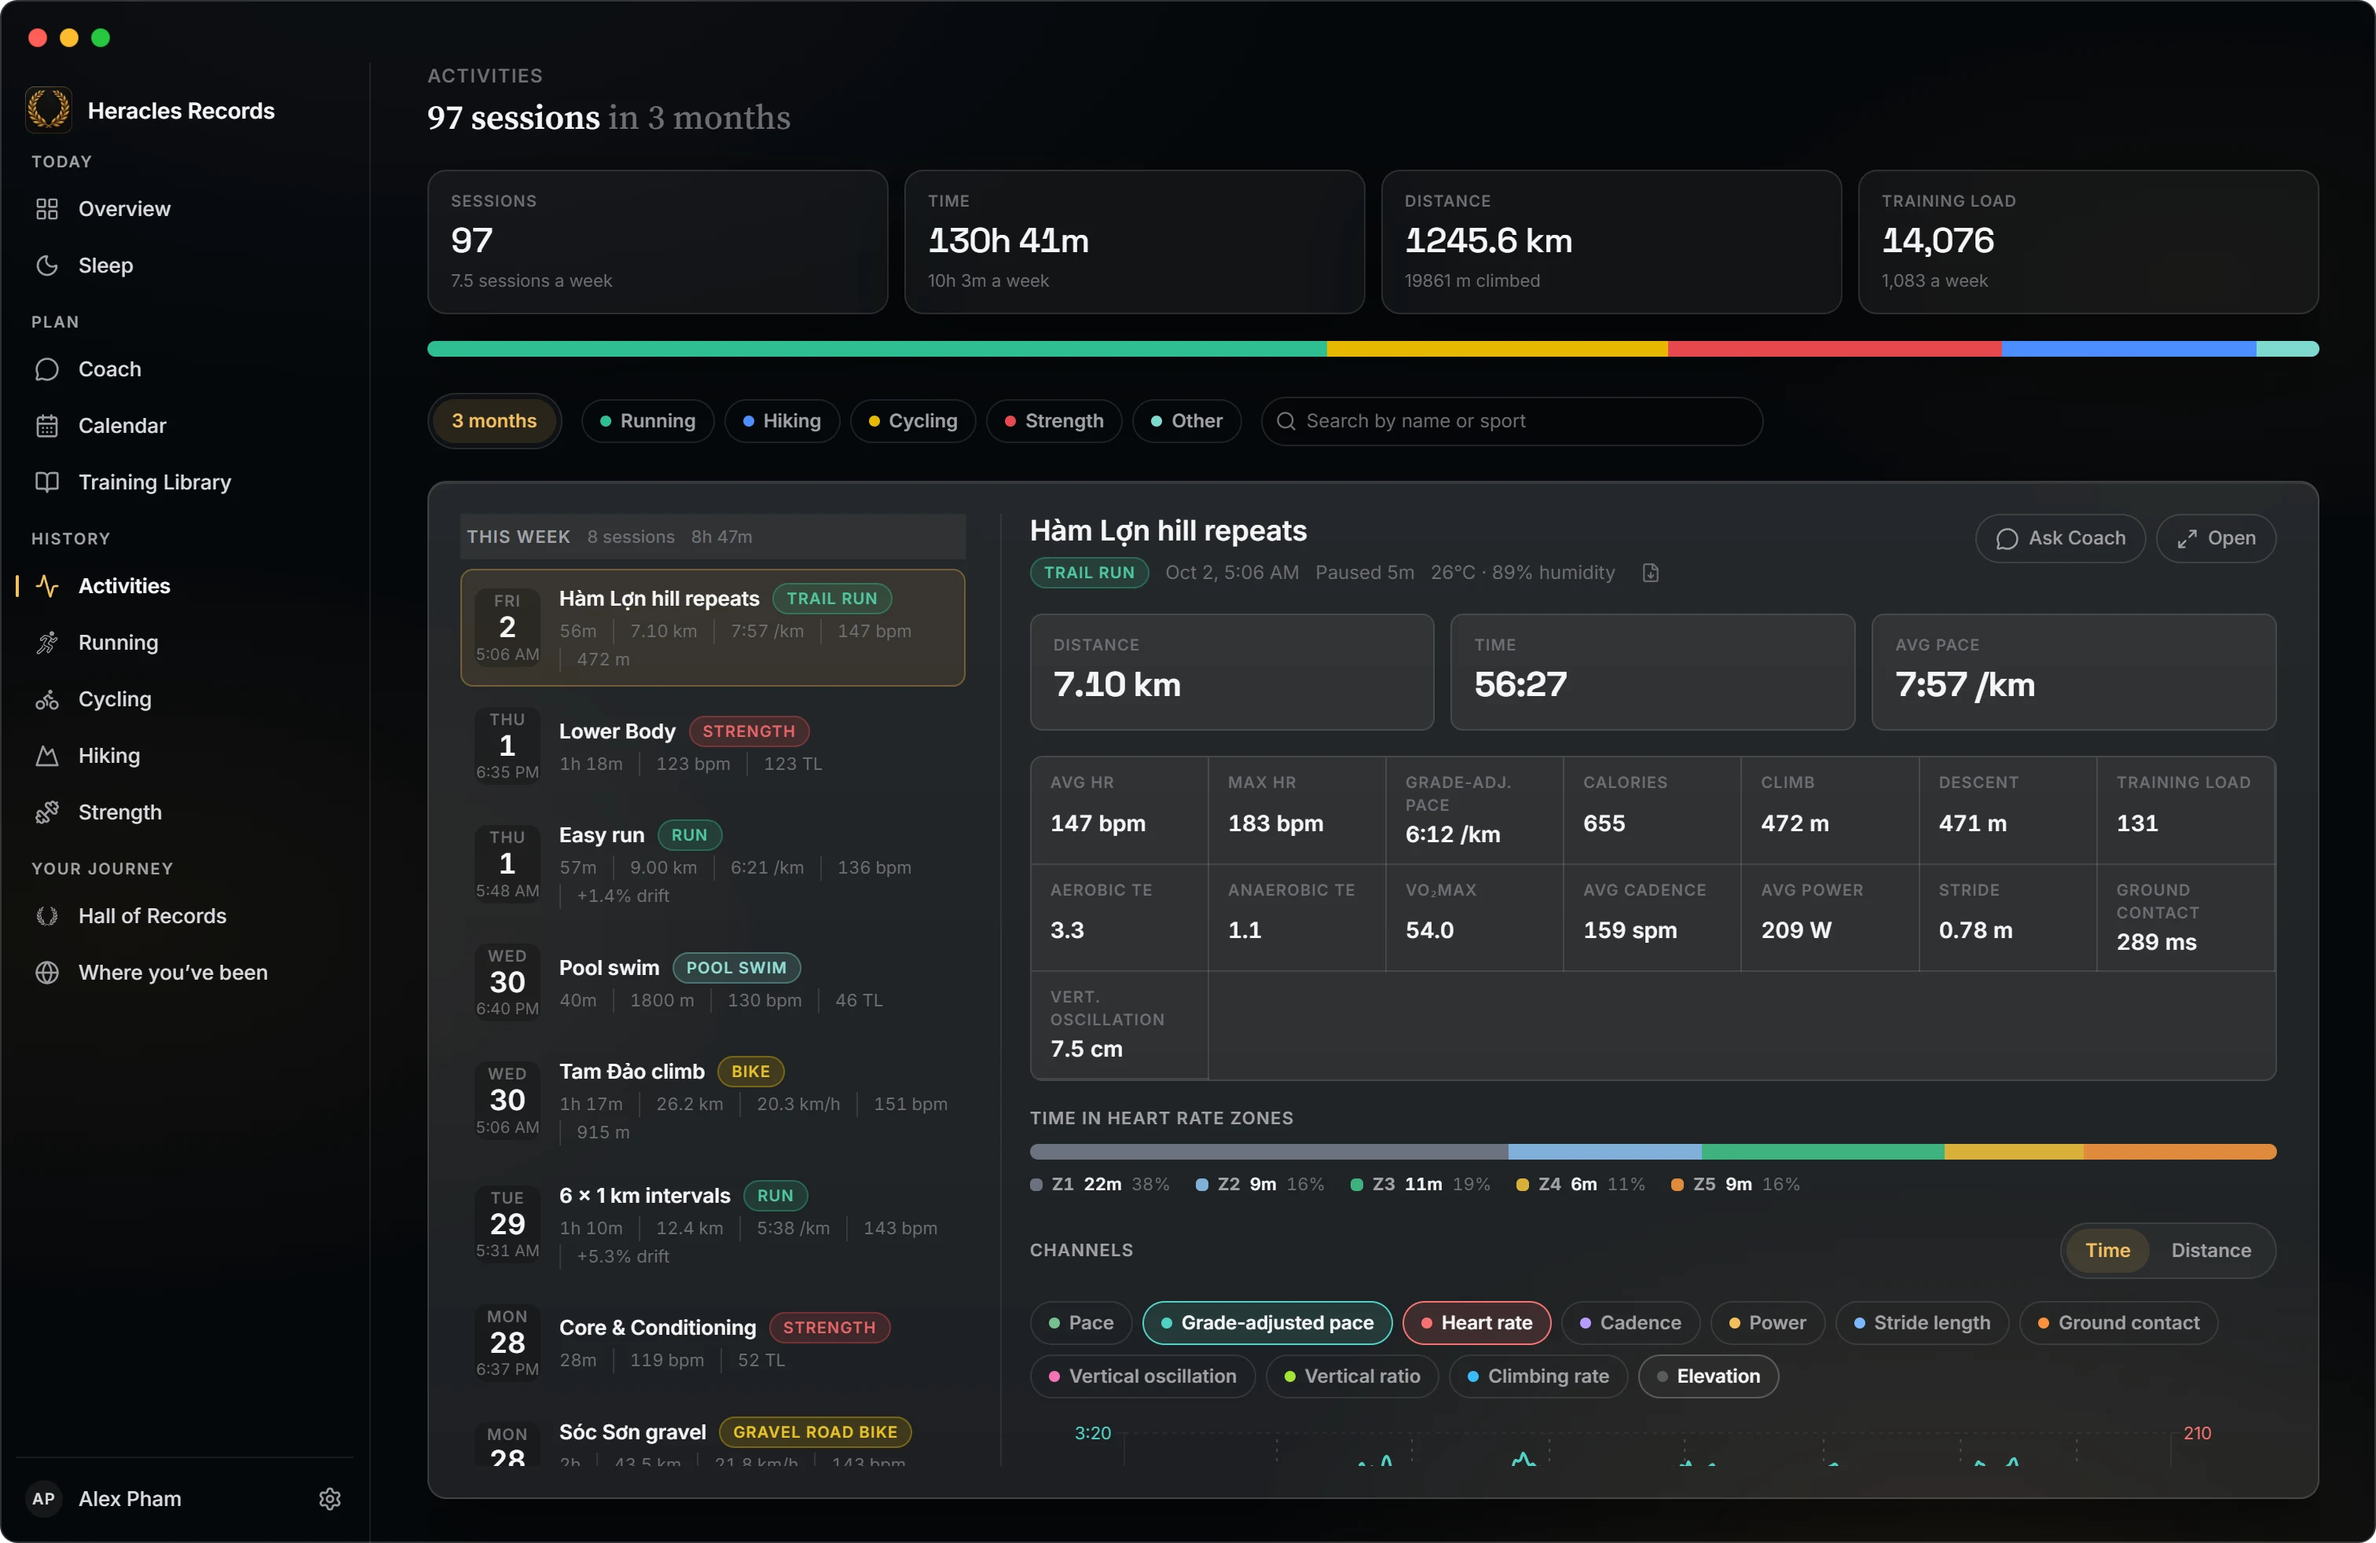
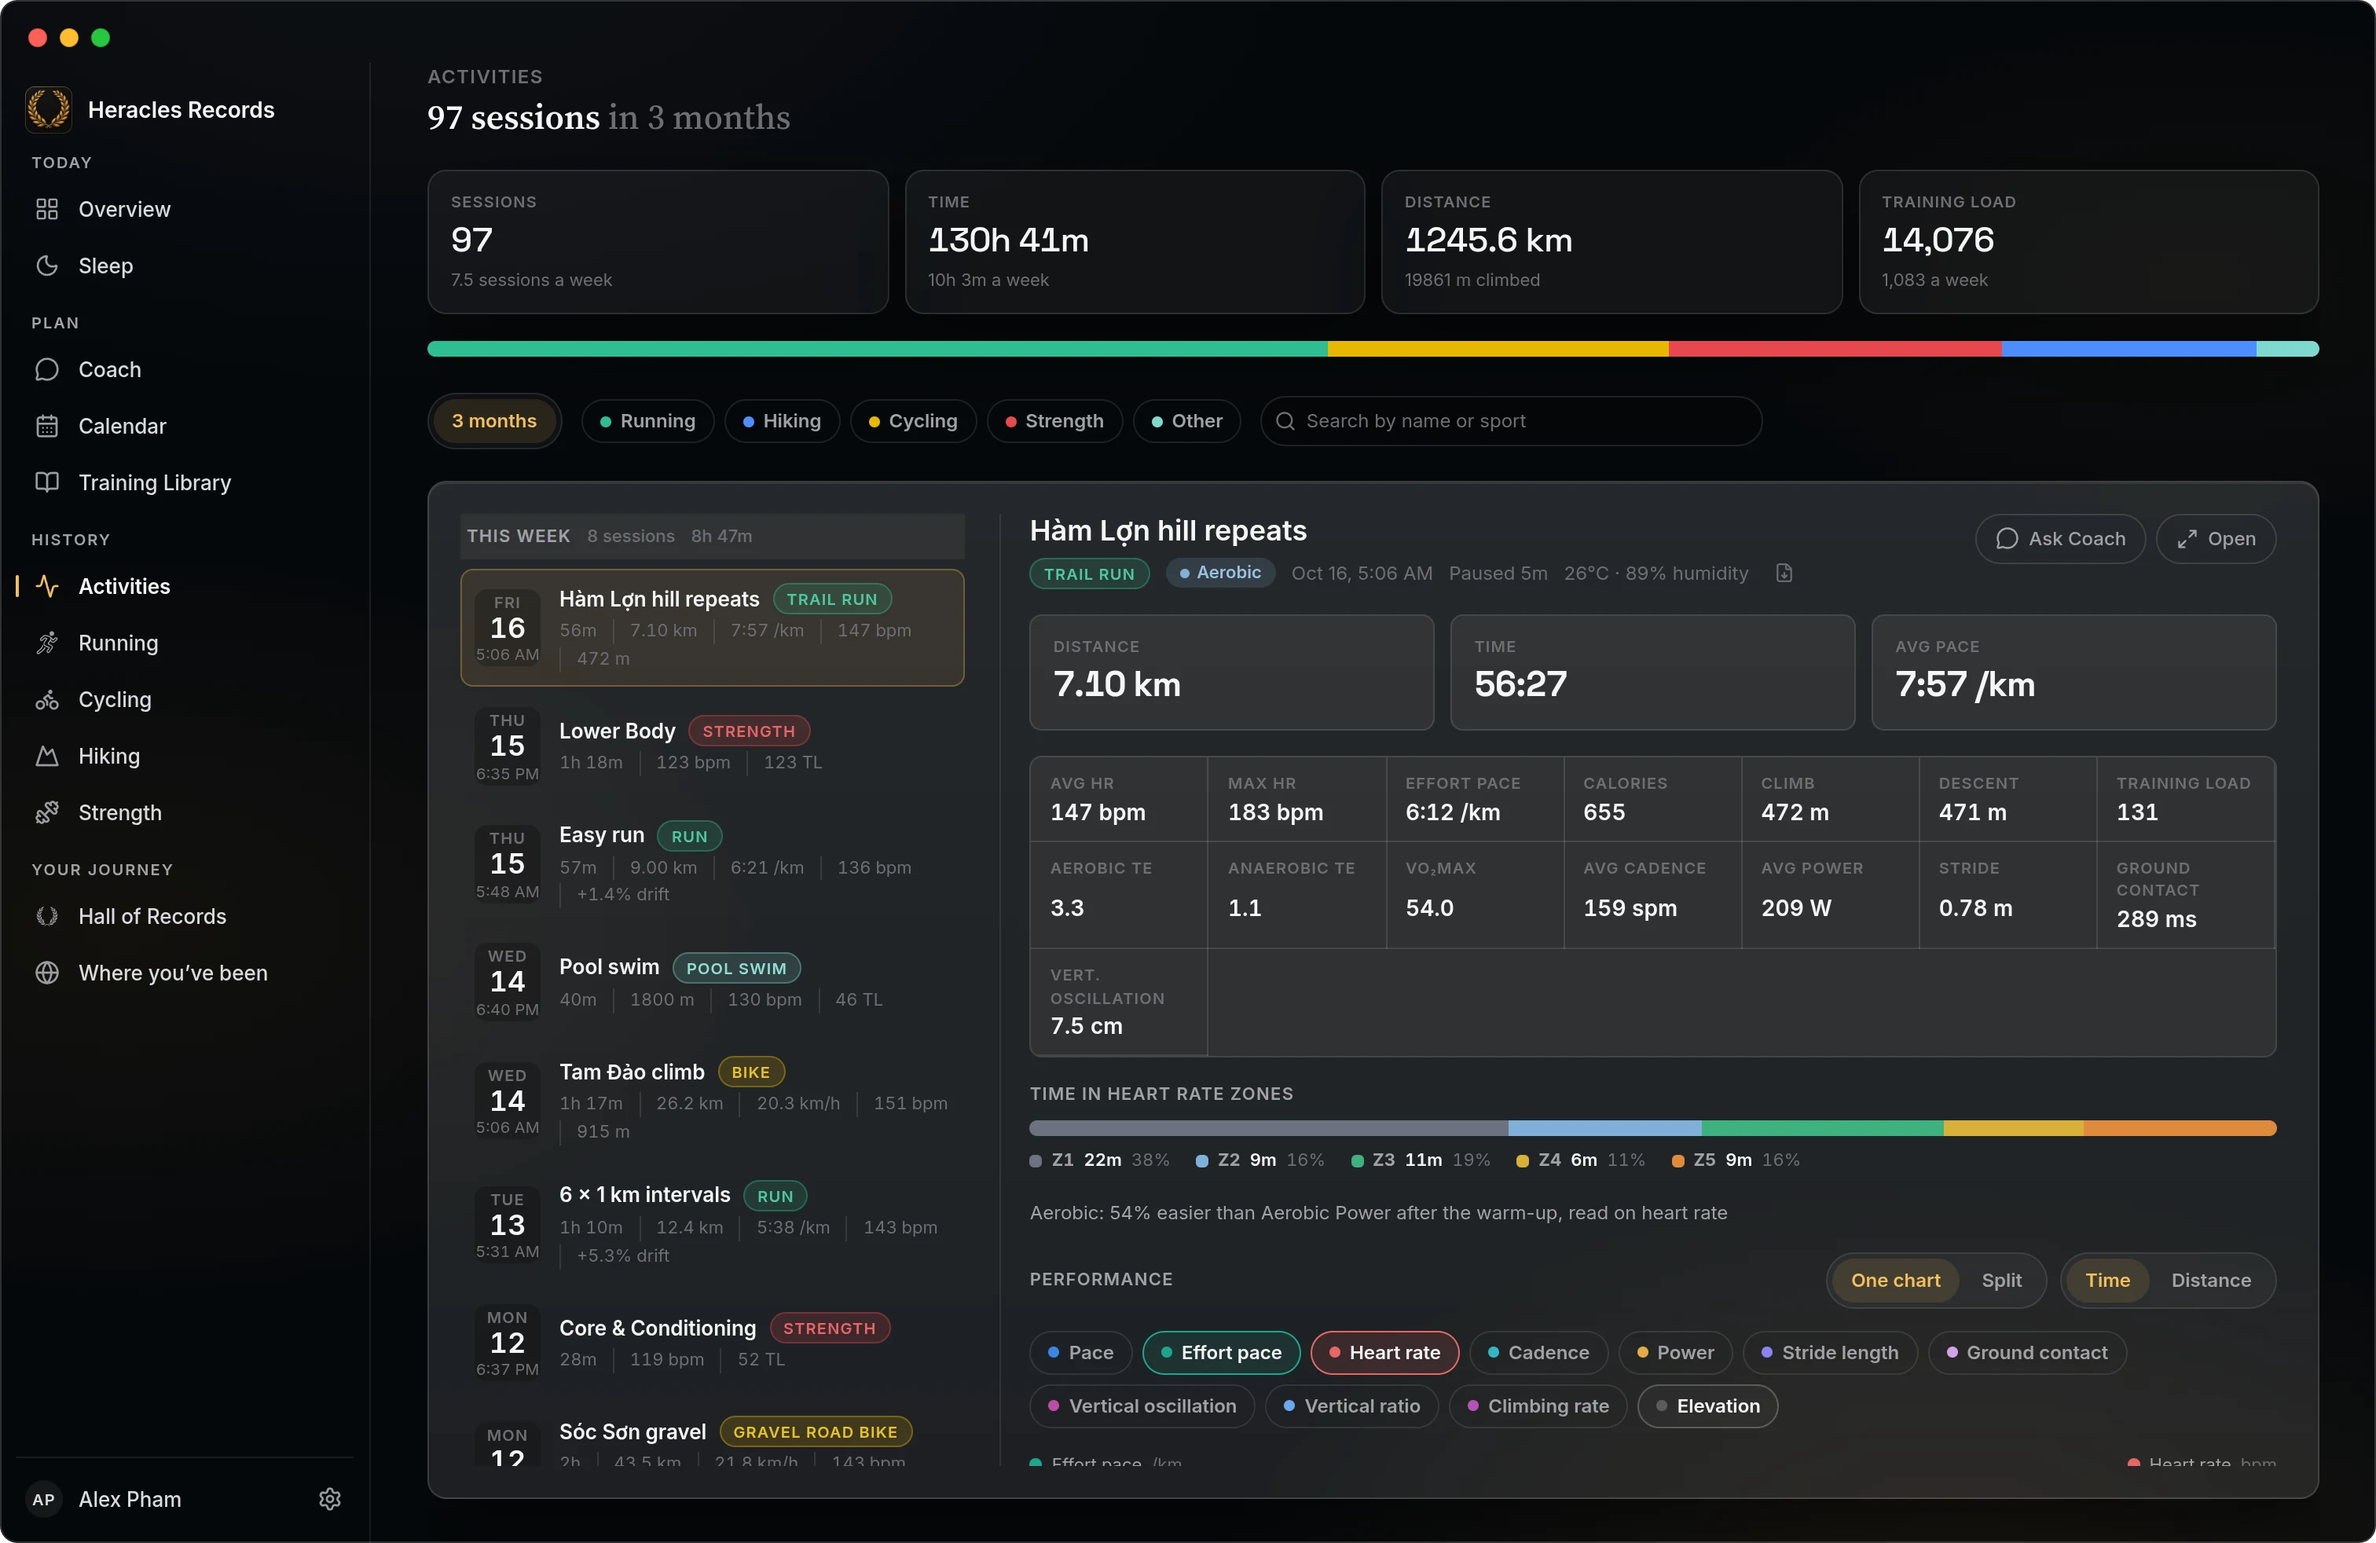
chore: release v1.2.0
Reshoots the screens that changed since 1.1.2 (Activities, Running and a
run's page, a ride's and a hike's pages, Cycling, Hiking) and the
activities link-preview card that shows a run's page.

diff --git a/CHANGELOG.md b/CHANGELOG.md
@@ -7,6 +7,20 @@ and this project adheres to [Semantic Versioning](https://semver.org/spec/v2.0.0
 
 ## [Unreleased]
 
+## [1.2.0] - 2026-10-20
+
+### What's new
+- **Running efficiency** - how much speed a road or track run bought for the heart rate it cost, on your COROS VO₂max scale and against your usual from the six weeks before, with how well you held it to the end. It is on the Running screen and on each run's page, and replaces Aerobic efficiency.
+- **Time in zones** - the run, ride and hike pages and an opened Strength session show the time in every zone, as COROS scored it. A run switches between heart rate and pace.
+- **Performance chart** - every surge and stop is drawn rather than averaged away, and the chart can split into two plots on one clock: what you produced above, what it cost below. Grade-adjusted pace is called Effort pace, as COROS calls it.
+- **Training labels** - every run and ride is named by what it trained: Recovery, Aerobic, Tempo, Threshold, VO2 Max or Anaerobic, beside its shape, such as Intervals 6 × 1000 m, strides or a long run. The label is on Activities, on each Running and Cycling row and on the session's page, which says why it was given.
+
+
+### Fixed
+- **Workouts and plans on COROS** - written the way COROS's own web app writes them: a strength session shows its muscle map in COROS, steps are named on the watch in your language, and moving a plan's session on the calendar keeps it in its plan.
+- The weekly volume charts no longer write the same number twice on their axis.
+- Improve app performance and stability.
+
 ## [1.1.2] - 2026-10-19
 
 ### What's new
